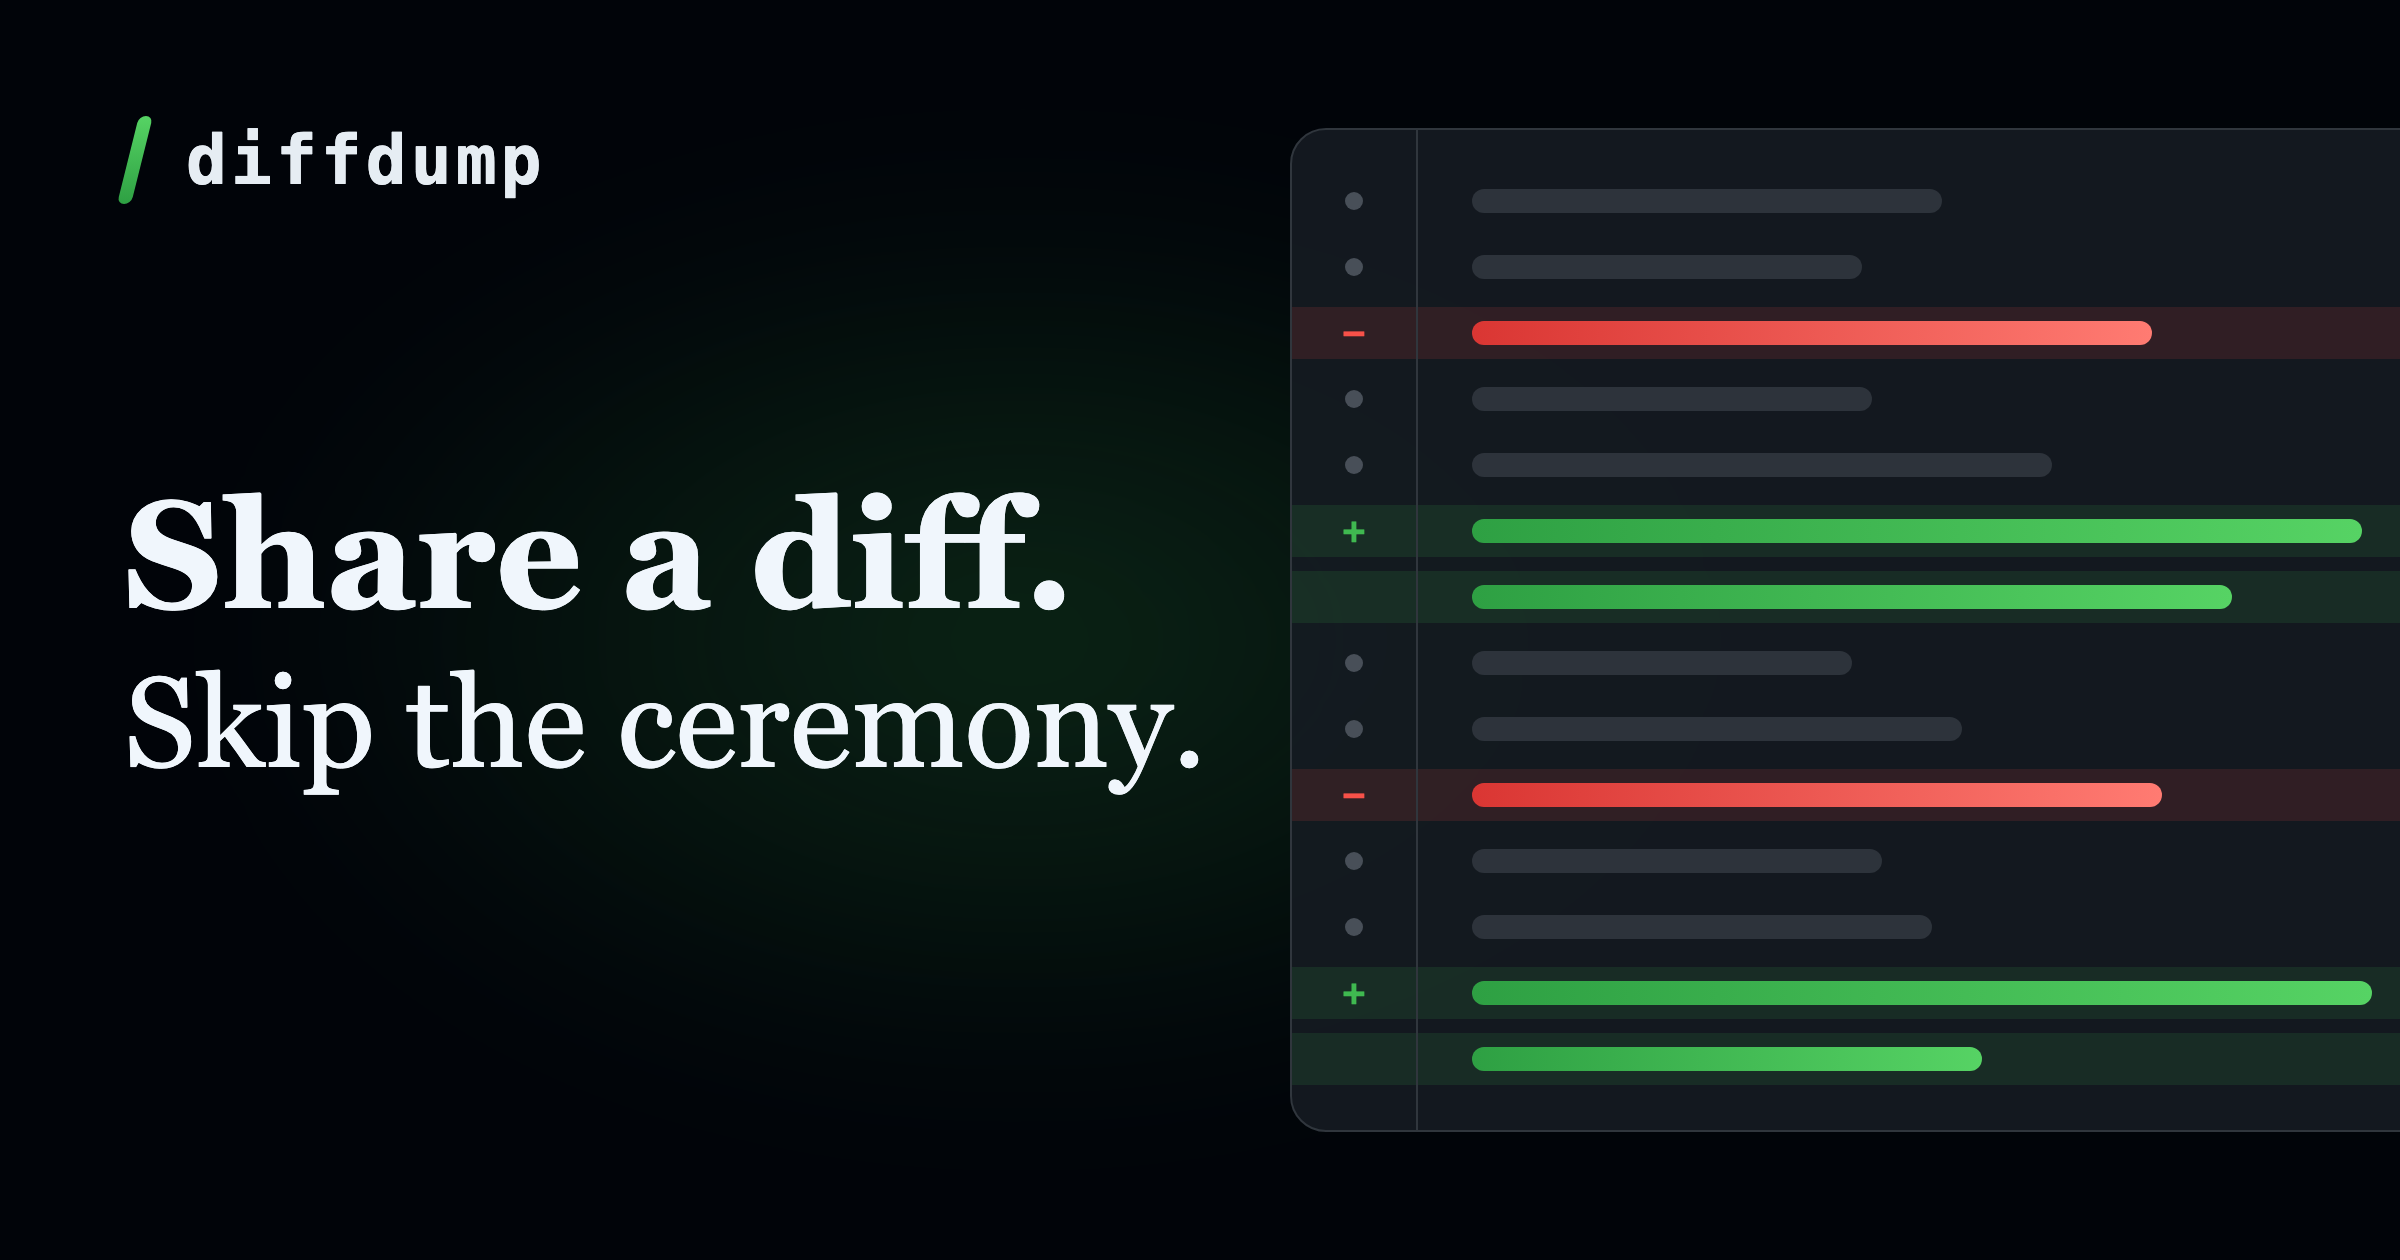
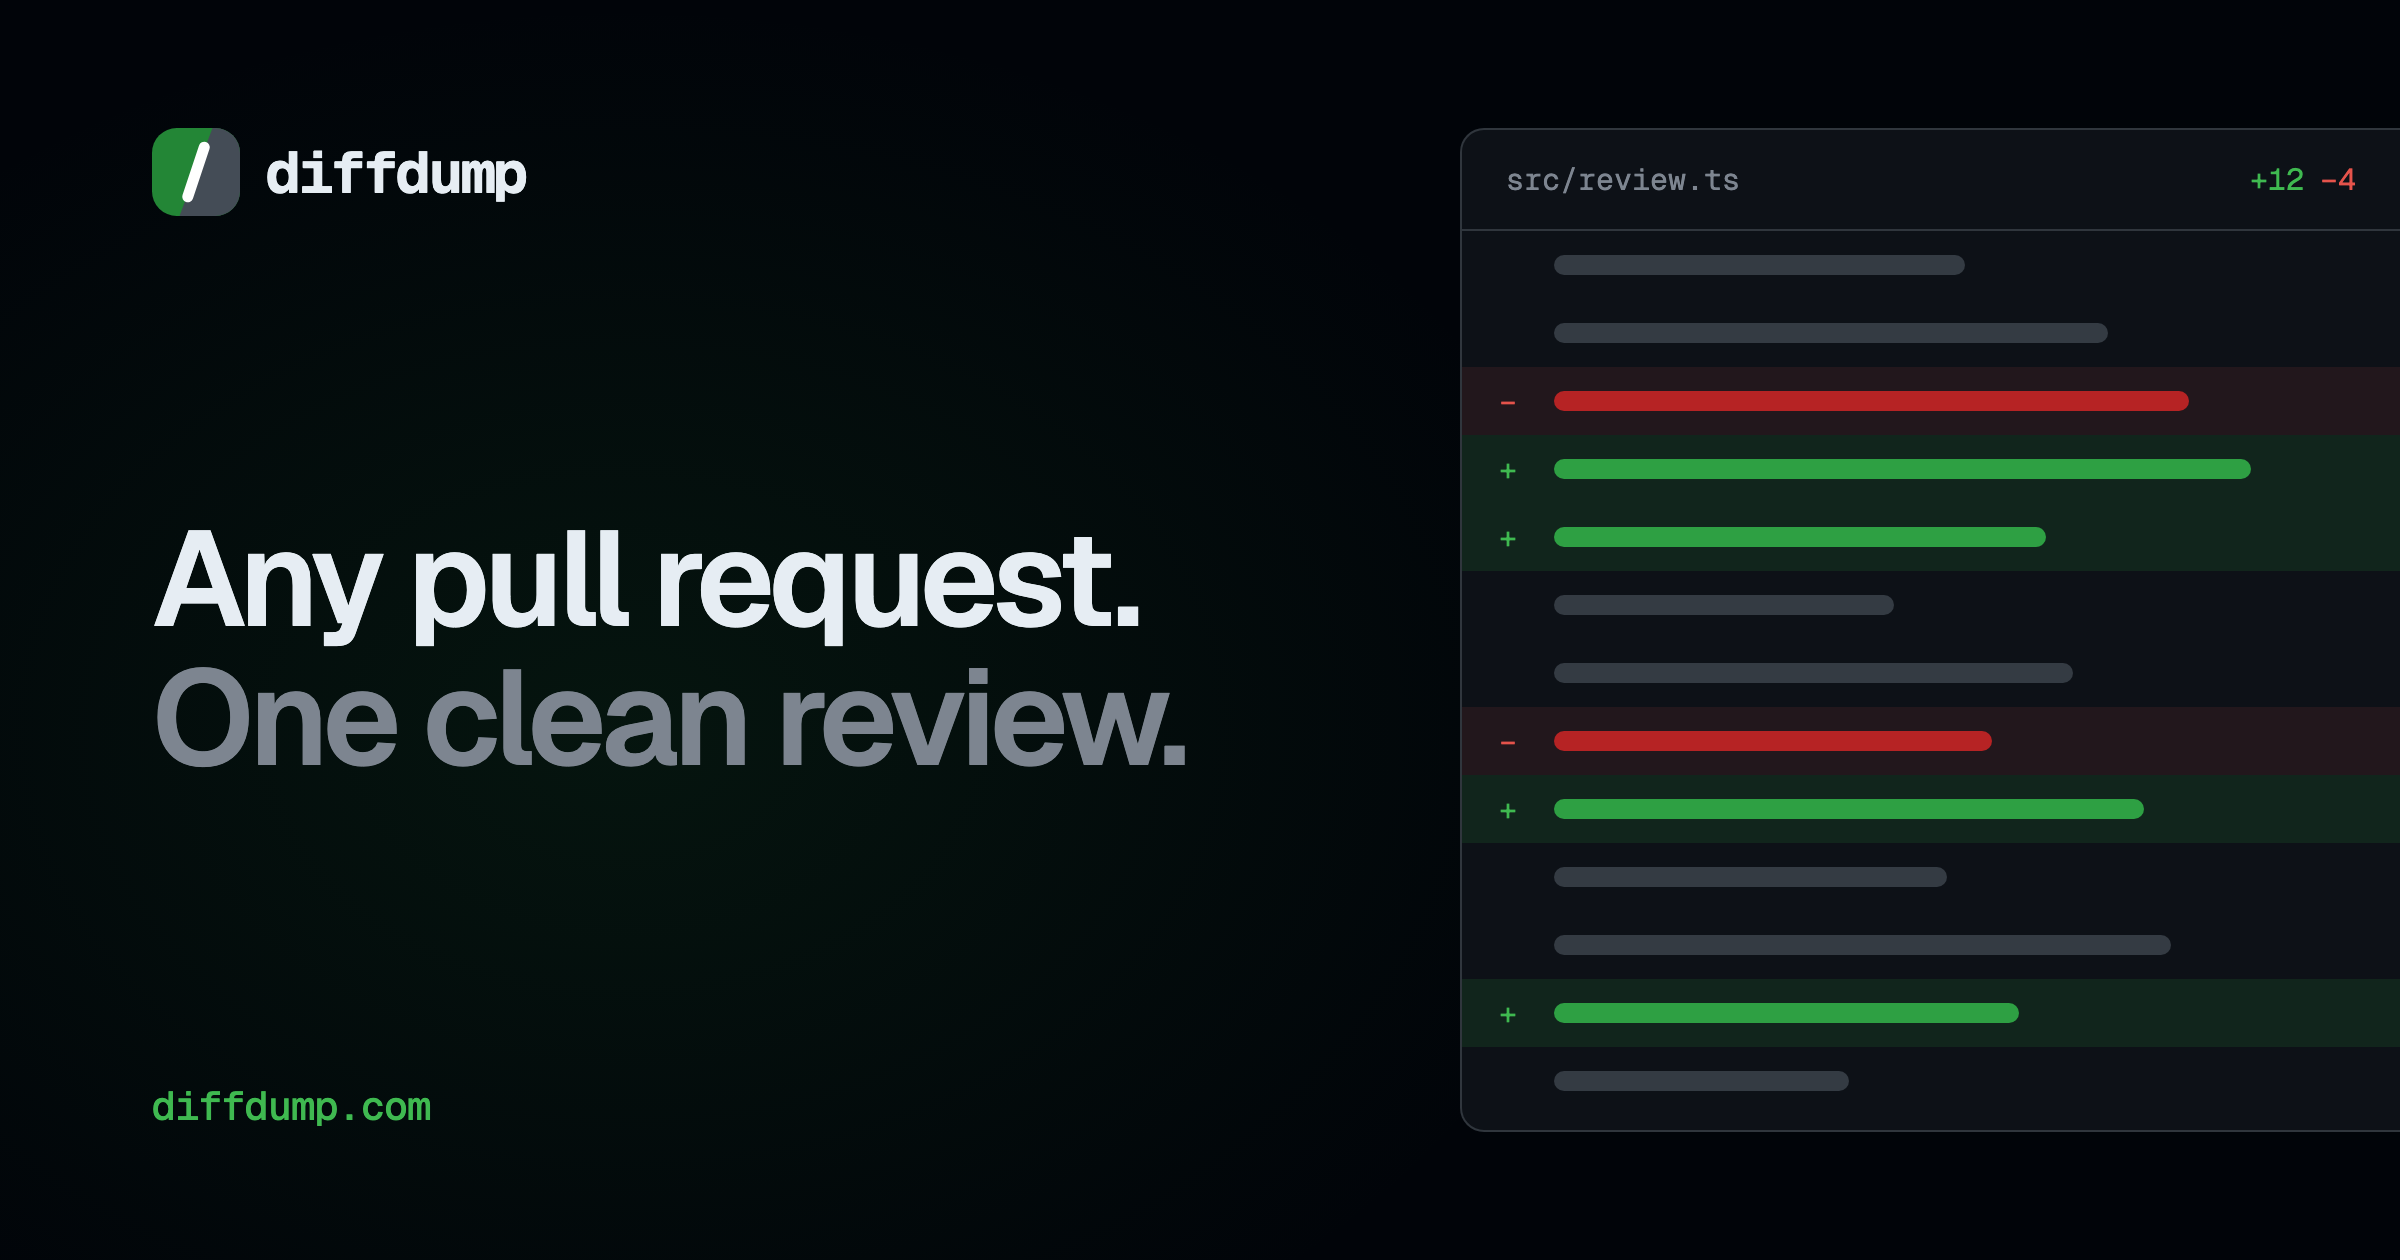
feat: refresh brand assets around the crisped slash-split mark
Sync the favicon's crisped geometry (integer coords, width-4 slash)
into the wordmark component, regenerate og.png with the green+slate
mark and live hero copy, and add a 180x180 apple-touch-icon.

diff --git a/src/components/wordmark.tsx b/src/components/wordmark.tsx
@@ -16,18 +16,18 @@ export function Wordmark({ className }: WordmarkProps) {
       to="/"
     >
       <svg className="size-6 shrink-0" viewBox="0 0 32 32" aria-hidden="true">
-        <rect width="32" height="32" rx="9" fill="var(--logo-add)" />
+        <rect width="32" height="32" rx="9" fill="var(--logo-accent)" />
         <path
-          d="M21.8 0H23a9 9 0 0 1 9 9v14a9 9 0 0 1-9 9H10.2Z"
-          fill="var(--logo-del)"
+          d="M22 0h1a9 9 0 0 1 9 9v14a9 9 0 0 1-9 9H10Z"
+          fill="var(--logo-neutral)"
         />
         <line
-          x1="12.6"
-          y1="25.4"
-          x2="19.4"
-          y2="6.6"
+          x1="13"
+          y1="25"
+          x2="19"
+          y2="7"
           stroke="var(--accent-ink)"
-          strokeWidth="3.6"
+          strokeWidth="4"
           strokeLinecap="round"
         />
       </svg>

diff --git a/src/styles.css b/src/styles.css
@@ -52,10 +52,10 @@
   --accent: light-dark(#1f883d, #238636);
   --accent-strong: light-dark(#1a7f37, #2ea043);
   --accent-ink: #ffffff;
-  /* Desaturated addition/deletion tones for the logo tile, quiet enough to
-     sit beside the neutral chrome. Mirrored in public/favicon.svg. */
-  --logo-add: light-dark(#40774f, #3a6848);
-  --logo-del: light-dark(#8b4b4f, #7c464a);
+  /* Logo tile fields: accent green split against a neutral slate by the
+     slash. Mirrored in public/favicon.svg. */
+  --logo-accent: light-dark(#1f883d, #238636);
+  --logo-neutral: light-dark(#57606a, #444c56);
   --accent-text: light-dark(#0969da, #2f81f7);
   --danger: light-dark(#cf222e, #f85149);
   --addition: light-dark(#1a7f37, #3fb950);

diff --git a/src/routes/__root.tsx b/src/routes/__root.tsx
@@ -74,6 +74,11 @@ export const Route = createRootRoute({
         href: '/favicon.svg',
         type: 'image/svg+xml',
       },
+      {
+        rel: 'apple-touch-icon',
+        href: '/apple-touch-icon.png',
+        sizes: '180x180',
+      },
     ],
   }),
   notFoundComponent: MissingDiffPage,
